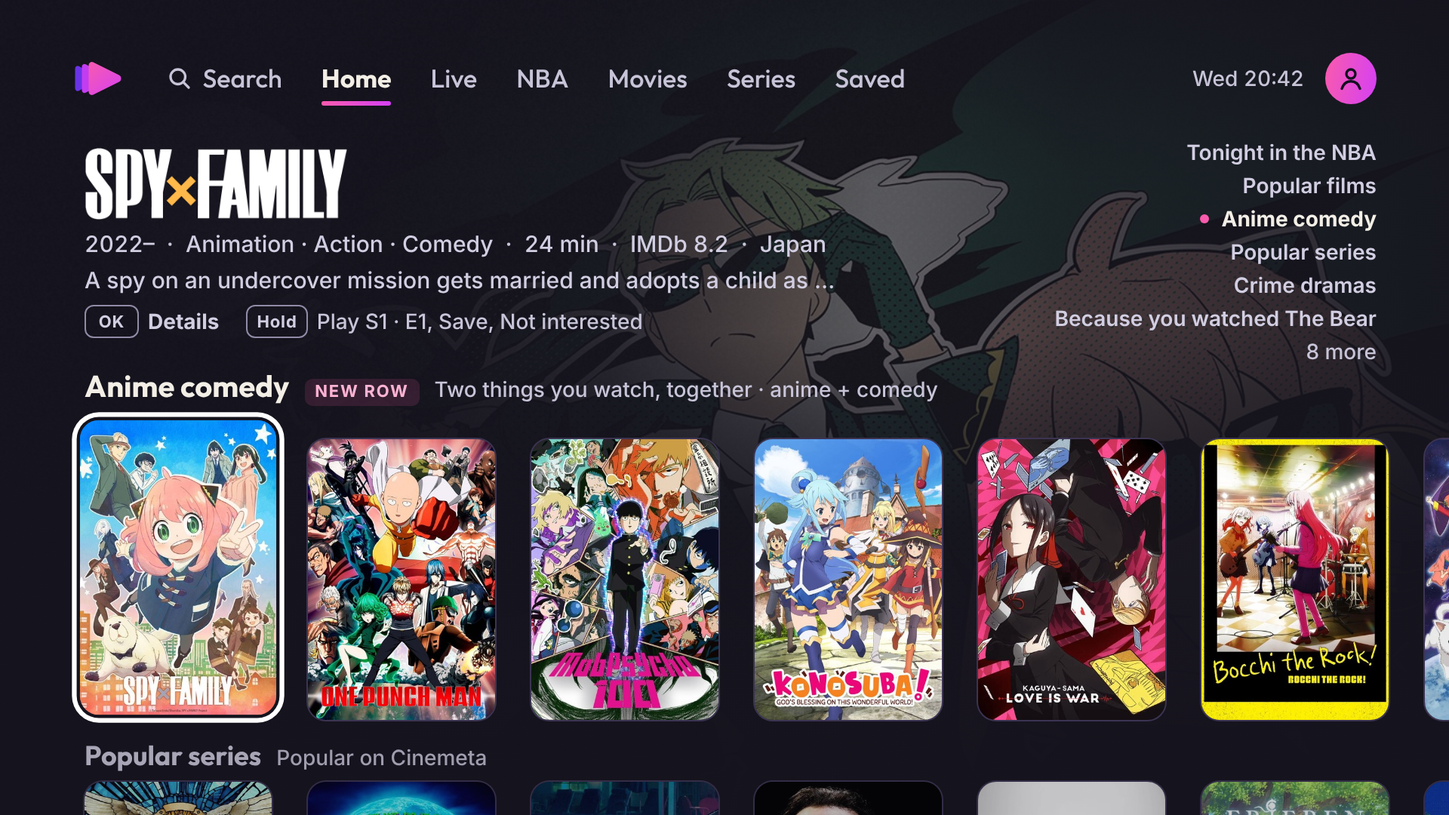
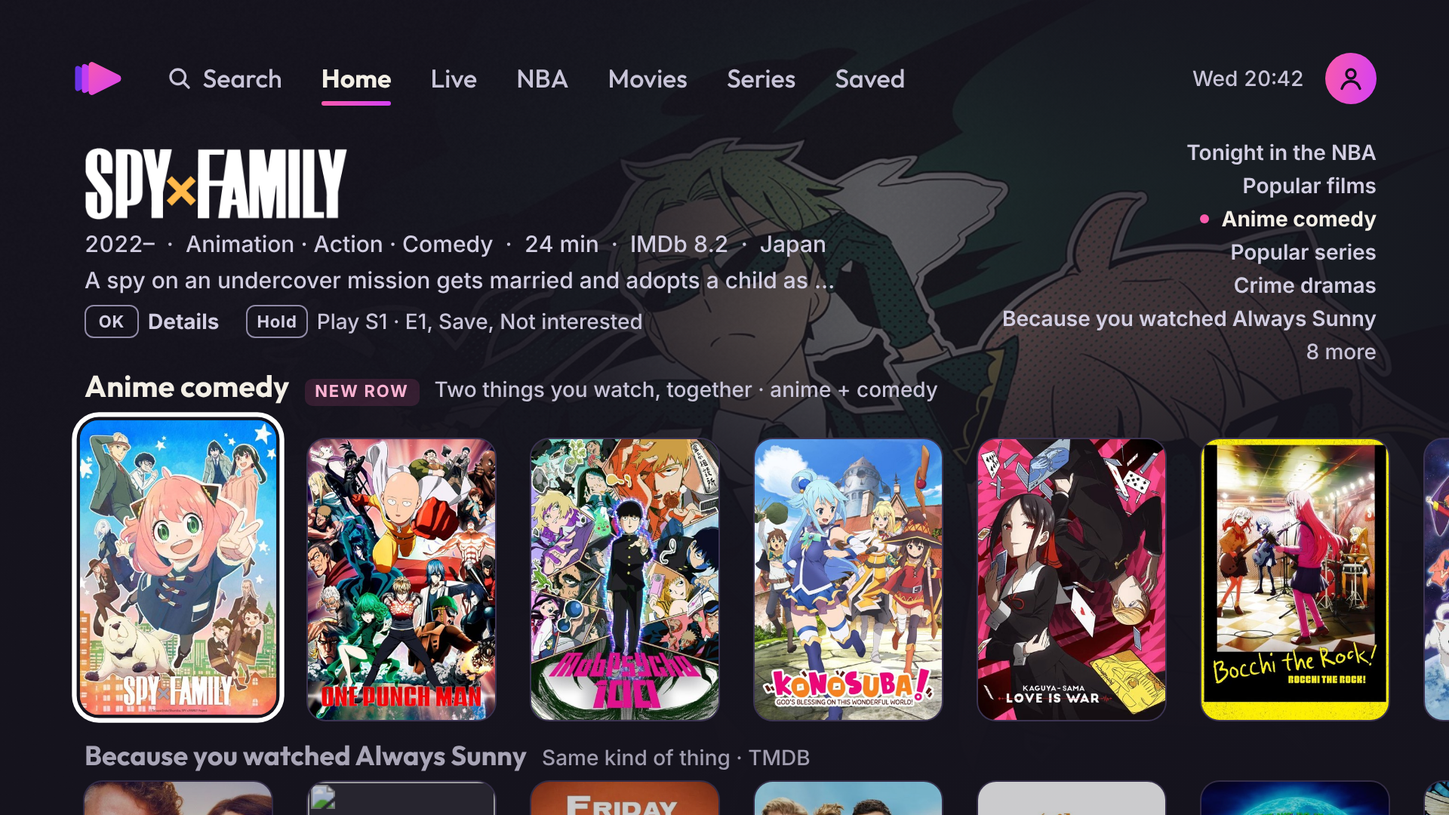
Home final v1.1: the verified TMDB numbers and titles (Icelandic 1,451 films and 107 series, the family exclusion and vote floors, real recommendations for Always Sunny) in the SPEC and the mocks

Changed region(s): [[0.0312, 0.9167, 0.6875, 1.0], [0.7812, 0.9472, 1.0, 1.0], [0.6875, 0.3667, 0.9688, 0.3972]]

diff --git a/design/ui-v1/home-final/tools/build.js b/design/ui-v1/home-final/tools/build.js
@@ -16,7 +16,7 @@ const ends = (clock, minutes) => { const [h, m] = clock.split(':').map(Number); 
 const LUM = { severance: 0.641, niceguys: 0.625, heartstone: 0.398, spyxfamily: 0.4, heat: 0.362, breakingbad: 0.463, slowhorses: 0.152, nakedgun: 0.448, hailmary: 0.188 };
 const cap = (art, target) => Math.min(0.6, Math.max(0.1, 1 - target / LUM[art])).toFixed(2);
 // the page's rows tonight (section 6's selection for this profile: comedy 55 %, anime 25 %, crime 20 %; a game day)
-const ROWS = ['Comedy for you', 'Tonight in the NBA', 'Popular films', 'Anime comedy', 'Popular series', 'Crime dramas', 'Because you watched The Bear', 'Your shows', 'New this year', 'Something different', 'Top rated', 'Á íslensku', 'Saved', 'Browse your library', 'Channels'];
+const ROWS = ['Comedy for you', 'Tonight in the NBA', 'Popular films', 'Anime comedy', 'Popular series', 'Crime dramas', 'Because you watched Always Sunny', 'Your shows', 'New this year', 'Something different', 'Top rated', 'Á íslensku', 'Saved', 'Browse your library', 'Channels'];
 
 const head = (title, extra = '') => `<!doctype html>
 <html lang="en"><head><meta charset="utf-8"><meta name="viewport" content="width=960,height=540">
@@ -101,7 +101,7 @@ column({ ey: 'Anime comedy · Spy x Family', logo: 'spyxfamily', title: 'Spy x F
   hint: rowsHint('Play S1 · E1') }) +
 index('Anime comedy') +
 row('Anime comedy', 'Two things you watch, together · anime + comedy', [poster('spyxfamily', { on: true }), poster('onepunch'), poster('mobpsycho'), poster('konosuba'), poster('kaguya'), poster('bocchi'), poster('gintama')], { isNew: true }) +
-peek('Popular series', 'Popular on Cinemeta', ['gemstones', 'wwdits', 'ozark', 'narcos', 'mindhunter', 'frieren', 'dandadan'].map((f) => poster(f))) + foot;
+peek('Because you watched Always Sunny', 'Same kind of thing · TMDB', ['platonic', 'peepshow', 'fnd', 'greatnews', 'tildeath', 'wwdits', 'gemstones'].map((f) => poster(f))) + foot;
 
 // ---------------------------------------------------------------- 4. game night (Thu 03:12, Grizzlies at Trail Blazers, shield on)
 const gameNight = () => head('Home, game night', `
@@ -164,7 +164,7 @@ column({ ey: 'Á íslensku · Heartstone', title: 'Heartstone',
   line: 'In a fishing village in Iceland, a boy develops feelings for his best friend as the summer ends.',
   hint: rowsHint('Play now') }) +
 index('Á íslensku') +
-row('Á íslensku', 'Icelandic films and series · 97', [poster('heartstone', { on: true }), poster('godland'), `<div class="poster load"><b>Woman at War</b></div>`, `<div class="poster load"><b>Rams</b></div>`, poster('lamb'), `<div class="poster txt"><small>No poster</small><b>Northern Comfort</b></div>`, poster('touch')]) +
+row('Á íslensku', '1,451 films · 107 series · TMDB', [poster('heartstone', { on: true }), poster('trapped'), poster('katla'), `<div class="poster load"><b>Black Sands</b></div>`, `<div class="poster load"><b>The Valhalla Murders</b></div>`, poster('godland'), `<div class="poster txt"><small>No poster</small><b>Northern Comfort</b></div>`]) +
 peek('Saved', '4 titles you have not started', ['oppenheimer', 'dune2', 'sinners', 'mickey17'].map((f) => poster(f))) + foot;
 
 // ---------------------------------------------------------------- 9. rows: Continue watching (wide cards)

diff --git a/design/ui-v1/home-final/03-rows-blend.html b/design/ui-v1/home-final/03-rows-blend.html
@@ -17,7 +17,7 @@
   <div class="line">A spy on an undercover mission gets married and adopts a child as part of his cover. His wife and daughter have secrets of their own.</div>
   <div class="hint"><span><span class="k">OK</span><b>Details</b></span><span><span class="k">Hold</span>Play S1 · E1, Save, Not interested</span></div>
 </div>
-<div class="index"><span class="">Tonight in the NBA</span><span class="">Popular films</span><span class="cur">Anime comedy</span><span class="">Popular series</span><span class="">Crime dramas</span><span class="">Because you watched The Bear</span><span class="dim">8 more</span></div>
+<div class="index"><span class="">Tonight in the NBA</span><span class="">Popular films</span><span class="cur">Anime comedy</span><span class="">Popular series</span><span class="">Crime dramas</span><span class="">Because you watched Always Sunny</span><span class="dim">8 more</span></div>
 <div class="row"><div class="rt">Anime comedy<span class="new">New row</span><span>Two things you watch, together · anime + comedy</span></div><div class="cards"><div class="poster on"><img src="art/spyxfamily-poster.jpg" alt=""></div><div class="poster"><img src="art/onepunch-poster.jpg" alt=""></div><div class="poster"><img src="art/mobpsycho-poster.jpg" alt=""></div><div class="poster"><img src="art/konosuba-poster.jpg" alt=""></div><div class="poster"><img src="art/kaguya-poster.jpg" alt=""></div><div class="poster"><img src="art/bocchi-poster.jpg" alt=""></div><div class="poster"><img src="art/gintama-poster.jpg" alt=""></div></div></div>
-<div class="peek"><div class="rt">Popular series<span>Popular on Cinemeta</span></div><div class="cards"><div class="poster"><img src="art/gemstones-poster.jpg" alt=""></div><div class="poster"><img src="art/wwdits-poster.jpg" alt=""></div><div class="poster"><img src="art/ozark-poster.jpg" alt=""></div><div class="poster"><img src="art/narcos-poster.jpg" alt=""></div><div class="poster"><img src="art/mindhunter-poster.jpg" alt=""></div><div class="poster"><img src="art/frieren-poster.jpg" alt=""></div><div class="poster"><img src="art/dandadan-poster.jpg" alt=""></div></div></div>
+<div class="peek"><div class="rt">Because you watched Always Sunny<span>Same kind of thing · TMDB</span></div><div class="cards"><div class="poster"><img src="art/platonic-poster.jpg" alt=""></div><div class="poster"><img src="art/peepshow-poster.jpg" alt=""></div><div class="poster"><img src="art/fnd-poster.jpg" alt=""></div><div class="poster"><img src="art/greatnews-poster.jpg" alt=""></div><div class="poster"><img src="art/tildeath-poster.jpg" alt=""></div><div class="poster"><img src="art/wwdits-poster.jpg" alt=""></div><div class="poster"><img src="art/gemstones-poster.jpg" alt=""></div></div></div>
 </div></body></html>

diff --git a/design/ui-v1/home-final/09-rows-continue.html b/design/ui-v1/home-final/09-rows-continue.html
@@ -17,7 +17,7 @@
   <div class="line">As Walt settles into his new surroundings, Walter Jr. demands answers about his parents’ relationship.</div>
   <div class="hint"><span><span class="k">OK</span><b>Resume</b></span><span><span class="k">Hold</span>Start over, Details, Mark watched, Remove from Home</span></div>
 </div>
-<div class="index"><span class="">Crime dramas</span><span class="">Because you watched The Bear</span><span class="cur">Your shows</span><span class="">New this year</span><span class="">Something different</span><span class="">Top rated</span><span class="dim">4 more</span></div>
+<div class="index"><span class="">Crime dramas</span><span class="">Because you watched Always Sunny</span><span class="cur">Your shows</span><span class="">New this year</span><span class="">Something different</span><span class="">Top rated</span><span class="dim">4 more</span></div>
 <div class="row"><div class="rt">Your shows<span>Where you are, and what is new · 7</span></div><div class="cards"><div class="wide on"><img src="art/breakingbad-still.jpg" alt=""><div class="sy"></div><span class="q">4K</span><img class="lg" src="art/breakingbad-logo.png" alt=""><div class="c">S3 · E6 <span>· 12 min left</span></div><div class="pb" style="--p:76%"><i></i></div></div><div class="wide"><img src="art/bear-still.jpg" alt=""><div class="sy"></div><img class="lg" src="art/bear-logo.png" alt=""><div class="c">S4 · E3 <span>· 18 min left</span></div><div class="pb" style="--p:48%"><i></i></div></div><div class="wide"><img src="art/andor-still.jpg" alt=""><div class="sy"></div><img class="lg" src="art/andor-logo.png" alt=""><div class="c">S2 · E7 <span>· 31 min left</span></div><div class="pb" style="--p:35%"><i></i></div></div><div class="wide"><img src="art/slowhorses-still.jpg" alt=""><div class="sy"></div><img class="lg" src="art/slowhorses-logo.png" alt=""><div class="c">S6 · E4 <span>· new · 3</span></div></div><div class="wide"><img src="art/lastofus-still.jpg" alt=""><div class="sy"></div><div class="c">The Last of Us · S2 · E4 <span>· new</span></div></div></div></div>
 <div class="peek"><div class="rt">New this year<span>2026 on Cinemeta</span></div><div class="cards"><div class="poster"><img src="art/hailmary-poster.jpg" alt=""></div><div class="poster"><img src="art/toystory5-poster.jpg" alt=""></div><div class="poster"><img src="art/nakedgun-poster.jpg" alt=""></div><div class="poster"><img src="art/weapons-poster.jpg" alt=""></div><div class="poster"><img src="art/superman-poster.jpg" alt=""></div><div class="poster"><img src="art/f1-poster.jpg" alt=""></div><div class="poster"><img src="art/mickey17-poster.jpg" alt=""></div></div></div>
 </div></body></html>

diff --git a/design/ui-v1/home-final/08-loading-missing-art.html b/design/ui-v1/home-final/08-loading-missing-art.html
@@ -16,6 +16,6 @@
   <div class="hint"><span><span class="k">OK</span><b>Details</b></span><span><span class="k">Hold</span>Play now, Save, Not interested</span></div>
 </div>
 <div class="index"><span class="">Something different</span><span class="">Top rated</span><span class="cur">Á íslensku</span><span class="">Saved</span><span class="">Browse your library</span><span class="">Channels</span></div>
-<div class="row"><div class="rt">Á íslensku<span>Icelandic films and series · 97</span></div><div class="cards"><div class="poster on"><img src="art/heartstone-poster.jpg" alt=""></div><div class="poster"><img src="art/godland-poster.jpg" alt=""></div><div class="poster load"><b>Woman at War</b></div><div class="poster load"><b>Rams</b></div><div class="poster"><img src="art/lamb-poster.jpg" alt=""></div><div class="poster txt"><small>No poster</small><b>Northern Comfort</b></div><div class="poster"><img src="art/touch-poster.jpg" alt=""></div></div></div>
+<div class="row"><div class="rt">Á íslensku<span>1,451 films · 107 series · TMDB</span></div><div class="cards"><div class="poster on"><img src="art/heartstone-poster.jpg" alt=""></div><div class="poster"><img src="art/trapped-poster.jpg" alt=""></div><div class="poster"><img src="art/katla-poster.jpg" alt=""></div><div class="poster load"><b>Black Sands</b></div><div class="poster load"><b>The Valhalla Murders</b></div><div class="poster"><img src="art/godland-poster.jpg" alt=""></div><div class="poster txt"><small>No poster</small><b>Northern Comfort</b></div></div></div>
 <div class="peek"><div class="rt">Saved<span>4 titles you have not started</span></div><div class="cards"><div class="poster"><img src="art/oppenheimer-poster.jpg" alt=""></div><div class="poster"><img src="art/dune2-poster.jpg" alt=""></div><div class="poster"><img src="art/sinners-poster.jpg" alt=""></div><div class="poster"><img src="art/mickey17-poster.jpg" alt=""></div></div></div>
 </div></body></html>

diff --git a/design/ui-v1/home-final/SPEC.md b/design/ui-v1/home-final/SPEC.md
@@ -36,7 +36,7 @@ own free key, after the catalog research of 28 Oct 2026 (section 6a); Cinemeta s
 | 4 | Genre catalogs hold titles outside the genre | Genre rows and blends read TMDB `/discover` with `with_genres` (AND) and a `without_genres` exclusion per row (a Comedy row excludes Drama, Thriller, Horror, Crime, Mystery, War), **a heuristic to tune**: TMDB's own Comedy filter also holds Parasite and Pulp Fiction. On the Cinemeta fallback every genre row re-filters by the title's own `genres`. The "too few" rule applies after the filter |
 | 5 | The anime rule tags Pixar | Anime = TMDB keyword **210024 (`anime`)** AND `original_language=ja` (optionally `with_genres=16` to drop live action). The research checked the negatives: Moana, Up, Frozen, Toy Story and Soul are not among the 2,395 anime-keyword films; Spy x Family, Mob Psycho 100, Haikyu!! come out of the anime + comedy blend. The fallback without a key is Animation with Japan as the *first* country plus a build-time deny list, tested on those negatives |
 | 6 | Genre shares double-count; "the seed's first genre" is alphabetical | Fixed in section 6: a title's weight is split across its genres (`w / n`), anime is its own genre that absorbs the title's Animation and Action weight, and `Because you watched X` queries the seed genre with the largest share in his profile, not the first in Cinemeta's alphabetical list |
-| 7 | `Á íslensku` has no real source; a made-up count; duplicates; Icelandic names | TMDB `/discover` with `with_original_language=is` and `vote_count.gte=10` (about 89 films and 8 series today; the row prints TMDB's `total_results`), titles and overviews requested in `is-IS` with a field-by-field English fallback (the research found Icelandic text on few titles: `Snerting` yes, most no). Every row de-duplicates by IMDb / TMDB id across sources (`08`). The fallback without a key is a build-time list of Icelandic ids (`country` includes Iceland) |
+| 7 | `Á íslensku` has no real source; a made-up count; duplicates; Icelandic names | TMDB `/discover` with `with_original_language=is` (verified with the owner's key: **1,451 films and 107 series**: Trapped, Katla, Black Sands, The Valhalla Murders, Stella Blómkvist, Blackport …), the row sorted by popularity with `vote_count.gte=10`, the subtitle printing TMDB's totals; titles and overviews requested in `is-IS` with a field-by-field English fallback (`Drengir`, `Snerting`, `Dýrið` come back Icelandic; many titles have no Icelandic text). Every row de-duplicates by IMDb / TMDB id across sources (`08`). The fallback without a key is a build-time list of Icelandic ids (`country` includes Iceland) |
 | 8 | The play log does not exist | Section 6 now specifies it: an append-only `plays` store in IndexedDB (one record per session over 3 minutes: imdb id, type, episode, from, to, completion, when), the migration from today's `progress` store through `imdb.js` matching, and the first weeks as a cold start |
 
 **The four earlier points done badly**
@@ -89,11 +89,15 @@ title by 12 px.
 | The launch intro | Full on a cold start and at most once a day; any key skips it (section 10) |
 | Game night at 03:00 | Account > NBA gains `Game night: full / quiet` (quiet keeps the fields to the right third) |
 
-**Verified by the catalog research (28 Oct 2026, `catalog-research`)**: TMDB's discover parameters and semantics
-from the official references; the anime keyword 210024 and its negatives; the Icelandic counts; the vote-floored
-Top rated order (Shawshank, The Godfather …); CORS from a WebView (`access-control-allow-origin: *`, the
-`Authorization` header allowed); images need no key; the API returns 401 without one. Not called with a real key
-from this session, so the first run on the TV confirms the shapes. Also **verified against Cinemeta today:** the manifest's catalogs (`top` with `genre`/`search`/`skip`, `year`
+**Verified by the catalog research (28 Oct 2026), then with the owner's real TMDB key**: the discover parameters
+and semantics; the anime keyword 210024 and its negatives; CORS from a WebView; images need no key; the API returns
+401 without one. With the key: top-rated comedy with the exclusions gives 529 films led by Back to the Future, Toy
+Story 5, Puss in Boots, Klaus (so a grown-up genre row also excludes Animation 16 and Family 10751 unless his taste
+includes them: section 6a's rule); anime comedy films 592 (Castle of Cagliostro, Haikyu!!, Gintama); anime comedy
+series 1,975 by popularity, led by kids' long-runners (Doraemon, Sazae-san), so anime series rows sort by rating
+with a votes floor; Icelandic 1,451 films and 107 series; `/tv/2710/recommendations` (Always Sunny) gives Platonic,
+Great News, 'Til Death, Friday Night Dinner, Peep Show. The key stays with the owner: never in the repo, never in the
+mocks. Also **verified against Cinemeta today:** the manifest's catalogs (`top` with `genre`/`search`/`skip`, `year`
 with `genre` = a year, `imdbRating` named `Featured`), `top/genre=Comedy` answering at skip 3,000, `country` on the
 metas of the seven anime titles (Japan first) and of Heartstone, Godland and Rams (Iceland first or second), the
 episode lists, runtimes and ratings used in the mocks. **Not yet re-verified:** the reviewer's measurements of the
@@ -109,7 +113,7 @@ old anime rule; the source research decides what the engine reads, and the check
    on a game day) and one full-screen picture that answers the line you are on. The first browsing row peeks at
    the bottom of that screen, and Down past the last line (or **P−** from anywhere) is the browsing half: rows
    like Netflix (Popular, New, Top rated, genres) and rows built from what he watches (`Comedy for you`, `Anime
-   comedy`, `Crime dramas`, `Because you watched The Bear`). *Why:* the owner asked for both: "the continue
+   comedy`, `Crime dramas`, `Because you watched Always Sunny`). *Why:* the owner asked for both: "the continue
    watching of course and the game thing" and "genres and popular and all that". The review scored the Marquee
    highest for ease and clarity; the rows are where "finding something to watch" happens.
 2. **In the rows the picture still answers the focus, but gently.** The top 44 % of the screen shows the focused
@@ -323,12 +327,12 @@ are why Top rated, genre rows and anime now read TMDB (section 6a), with the Cin
 |---|---|
 | `01-evening` | Wed 20:41, a game day (tip-off 02:00). The Marquee: five lines in fixed slots, `Severance · Continue · S2 · E3 · 21 min left` lit; the plate: `CONTINUE WATCHING`, the Severance logo (56 px of ink), `S2 · E3 · Who Is Alive? · 21 min left · Ends 21:02 · 4K`, the episode's line, the bar, `Resume` pill · `→ Episodes` · `Hold Start over, Details`; the other lines Slow Horses (`New this week · S6 · E4 · 3 new`), Breaking Bad (`Up next · S3 · E7`), Heat (`A film for tonight · ends 23:31 · 4K`), Grizzlies at Trail Blazers (`Tonight · 02:00 · ESPN`); the first row `Comedy for you` peeking at the bottom with `P− Browse · 15 rows` |
 | `02-rows-comedy` | Down from the lineup (or P−): the top bar, the picture answering The Nice Guys (IMDb 7.4), the row index on its backing, row 1 `Comedy for you · Because you watch Always Sunny, The Office and 12 more` (films and series together), `Popular films` peeking |
-| `03-rows-blend` | the blend row `Anime comedy · New row · Two things you watch, together · anime + comedy`, Spy x Family lit, `Popular series` peeking |
+| `03-rows-blend` | the blend row `Anime comedy · New row · Two things you watch, together · anime + comedy`, Spy x Family lit; `Because you watched Always Sunny` peeking with TMDB's real recommendations (Platonic, Peep Show, Friday Night Dinner, Great News, 'Til Death) |
 | `04-game-night` | Thu 03:12, Grizzlies at Trail Blazers live, shield on: the two fields, `ON NOW` on the chip, `Score hidden`, both records `as of tip-off`, the fan line `as of tip-off`, `Watch live` · `→ From tip-off` · `Hold Reveal, more`; five lines (the game first); `Tonight in the NBA` peeking with the hidden game's card reading `Score hidden`; the NBA tab carries no second pill |
 | `05-library-comedy` | the Movies tab, Comedy, Popular, scrolled to #313 of 3,000+ (the context line in its band, the scroll bubble, six posters a row, the focused one's title on its own plate) |
 | `06-cold-start` | a new user, no history: `Project Hail Mary · Popular on Cinemeta · a pick for tonight` lit (`Details` the primary, no ▶), `Grizzlies at Trail Blazers · Your team`, `Kastljós · On now` (a habit line, see section 3), `Pick what you like · 3 genres start your rows`; `Popular films` peeking |
 | `07-rows-channels` | the `Channels` row: a channel has no picture, so the area shows the channel's logo on a flat field in the logo's colour; the column has `Kastljós · RÚV · 1 · 20:35 – 20:55 · 14 min left · HD` and `Next · Fréttir 20:55 …`; wide channel cards (`RÚV · 1 · Kastljós · until 20:55`); `Tune` · `Hold Save channel, Open in the guide` |
-| `08-loading-missing-art` | the row `Á íslensku`: the lit title drawn as if it had no backdrop (its poster upright on a flat ground) and no logo (its name in Outfit), two posters still loading (flat blocks with the name), a title with no poster (`No poster` and the name on surface-1; the name is a stand-in for the state) |
+| `08-loading-missing-art` | the row `Á íslensku · 1,451 films · 107 series · TMDB` (the verified totals): the lit title drawn as if it had no backdrop (its poster upright on a flat ground) and no logo (its name in Outfit), real Icelandic series from TMDB's list (Trapped, Katla, Black Sands, The Valhalla Murders), two posters still loading (flat blocks with the name), a title with no poster (`No poster` and the name on surface-1; the name is a stand-in for the state) |
 | `09-rows-continue` | the `Your shows` row: wide cards with the show's logo, the episode and the time left (Breaking Bad, The Bear, Andor, Slow Horses `new · 3`, The Last of Us); `New this year` peeking |
 | `10-rows-nba` | `Tonight in the NBA` at 20:42: the hub's game cards, nothing started, the plates are tip-off times; the column has the next game's facts and the pre-game fan line |
 
@@ -484,6 +488,11 @@ channel: its number (1–3 digits) or the Live tab in 4; any named row: P− the
   key`), kept in the app's settings store, **never in the repo** (the repo is public). Free for non-commercial use;
   airglow has no ads or payments. CORS is open from the WebView. Rate: about 40 requests a second upper bound; a
   Home build is 12 to 20 calls; a 429 backs off and uses the cache.
+- **Two rules every TMDB row follows** (from the verified runs): a **votes floor** (`vote_count.gte` 300 films /
+  150 series for rated rows, 100 for genre rows, 50 for anime series, 10 for Icelandic) and, for a grown-up genre
+  row, the **family exclusion** `without_genres` adds Animation (16) and Family (10751) unless his profile's share
+  of Animation + Family is 5 % or more (anime is its own genre and never excluded by this); anime series rows sort by
+  `vote_average.desc` under their floor, not by popularity, so Doraemon and Sazae-san do not lead them.
 - **What TMDB gives each row**: `/discover/{movie,tv}` with `with_genres` (comma = AND), `without_genres`,
   `with_keywords=210024` (anime), `with_original_language` (`ja`, `is`), `sort_by=vote_average.desc` with
   `vote_count.gte`, `primary_release_date` / `first_air_date` ranges; `/movie/{id}/recommendations` and
@@ -519,14 +528,14 @@ channel: its number (1–3 digits) or the Live tab in 4; any named row: P− the
 | Genre for you | TMDB `/discover` `with_genres=G` and the row's `without_genres` exclusion (Comedy: 18,53,27,80,9648,10752; Crime: none; Horror: 35,16 … a table the builder tunes), `vote_count.gte=100`, `sort_by=popularity.desc`, films and series interleaved by his type share, unseen, ≥ 6.5 | `Comedy for you` | `Because you watch Always Sunny, The Office and 12 more` (the three heaviest titles of that genre in his history) |
 | Blend | TMDB `/discover` `with_genres=A,B` (AND); anime blends add `with_keywords=210024&with_original_language=ja` | from the table below | `Two things you watch, together · anime + comedy` |
 | Anime | TMDB `with_keywords=210024&with_original_language=ja` (`with_genres=16` to drop live action), `vote_count.gte=150` | `Anime` | `Because you watch Spy x Family and 4 more` |
-| Because you watched X | TMDB `/recommendations` for each of his last 5–10 finished titles, merged on the device: a candidate's score = how many seeds recommend it (+1 per seed), unseen only, top 20; X is the seed that contributed most. Fallback without a key: the seed's genre with the largest share in his profile, scored by shared genres (2 points each), director (3), cast (1 each, up to 3), decade (1) | `Because you watched The Bear` | `Same kind of thing · Comedy · Drama` |
+| Because you watched X | TMDB `/recommendations` for each of his last 5–10 finished titles, merged on the device: a candidate's score = how many seeds recommend it (+1 per seed), unseen only, top 20; X is the seed that contributed most (verified: Always Sunny gives Platonic, Great News, 'Til Death, Friday Night Dinner, Peep Show). Fallback without a key: the seed's genre with the largest share in his profile, scored by shared genres (2 points each), director (3), cast (1 each, up to 3), decade (1) | `Because you watched Always Sunny` | `Same kind of thing · Comedy · Drama` |
 | Popular | `top` films / series | `Popular films` / `Popular series` | `This week on Cinemeta` |
 | New this year | `year` films / series | `New this year` | `2026 on Cinemeta` |
 | Top rated | TMDB `/discover` `sort_by=vote_average.desc&vote_count.gte=300` (150 for series); **never Cinemeta's `imdbRating` catalog** (it is `Featured`: mostly new, mostly unrated). Fallback: the app's ratings file (`scripts/build-ratings.js`) with a votes floor (25,000 films, 10,000 series) over Cinemeta `top` pages | `Top rated` | `Rated 8.0 and up · TMDB` |
 | Top rated in a genre | the same with `with_genres=G` | `Top rated comedies` | `Rated 7.5 and up` |
 | Something different | a genre with share < 3 %, the same, `vote_average.gte=7.5` | `Something different` | `Documentaries · a kind you rarely watch, rated 7.5 and up` |
 | Add-on catalog | another add-on's catalog (its manifest) | the catalog's name | `From <add-on>` |
-| Á íslensku | TMDB `/discover` `with_original_language=is&vote_count.gte=10` (films and series; `language=is-IS` with English fallback per field), plus copies with Icelandic audio; the count is TMDB's `total_results`. Fallback: a build-time list of Icelandic ids (`country` includes Iceland) | `Á íslensku` | `Icelandic films and series · 97` |
+| Á íslensku | TMDB `/discover` `with_original_language=is` by popularity with `vote_count.gte=10` (films and series; `language=is-IS` with English fallback per field), plus copies with Icelandic audio; the subtitle prints TMDB's totals. Fallback: a build-time list of Icelandic ids (`country` includes Iceland) | `Á íslensku` | `1,451 films · 107 series · TMDB` |
 | Saved | Saved, not started | `Saved` | – |
 | Browse your library | the doors (home-v2 4.4), over the add-on catalogs | `Browse your library` | `OK opens the shelf` |
 | Channels | favourites and recent | `Channels` | `Favourites and recent` |
